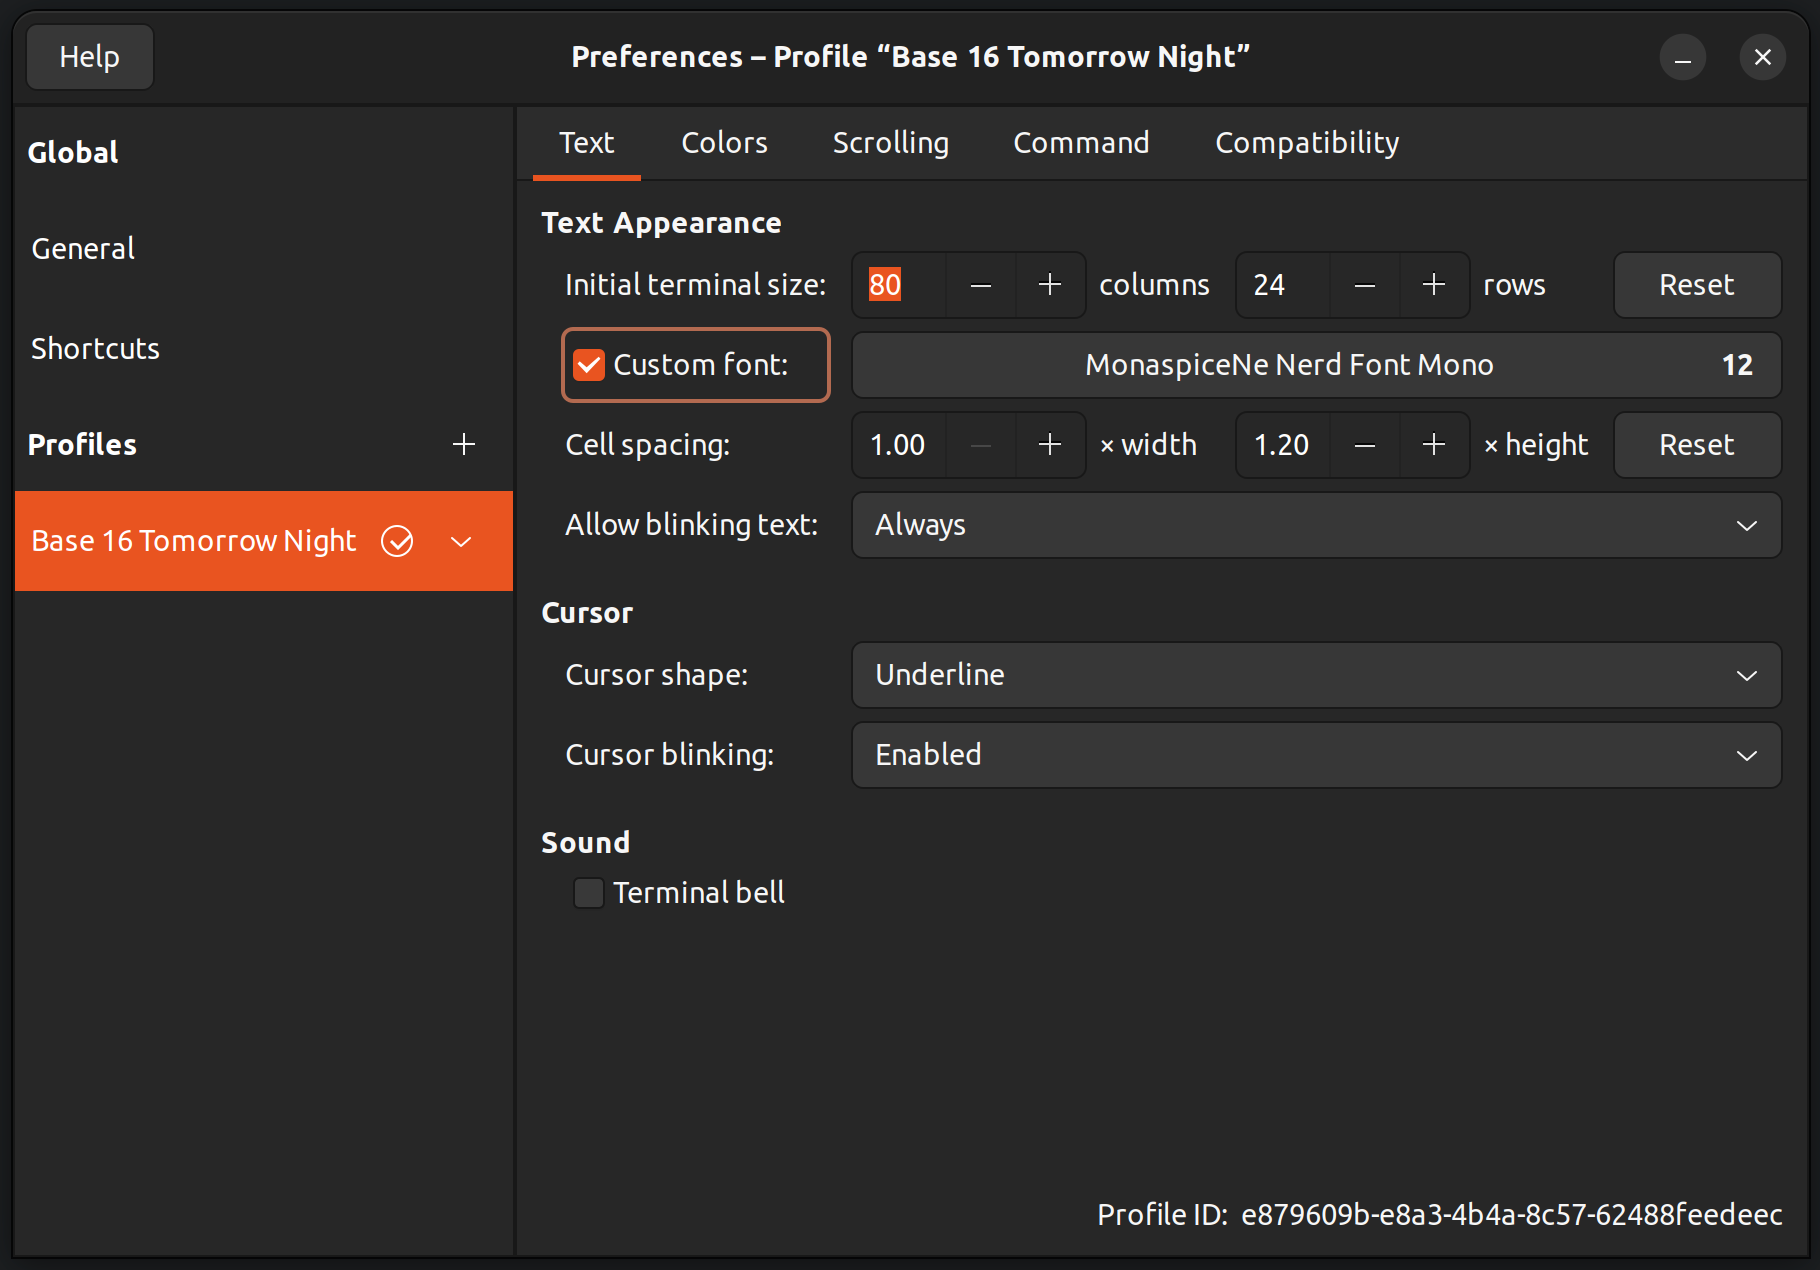
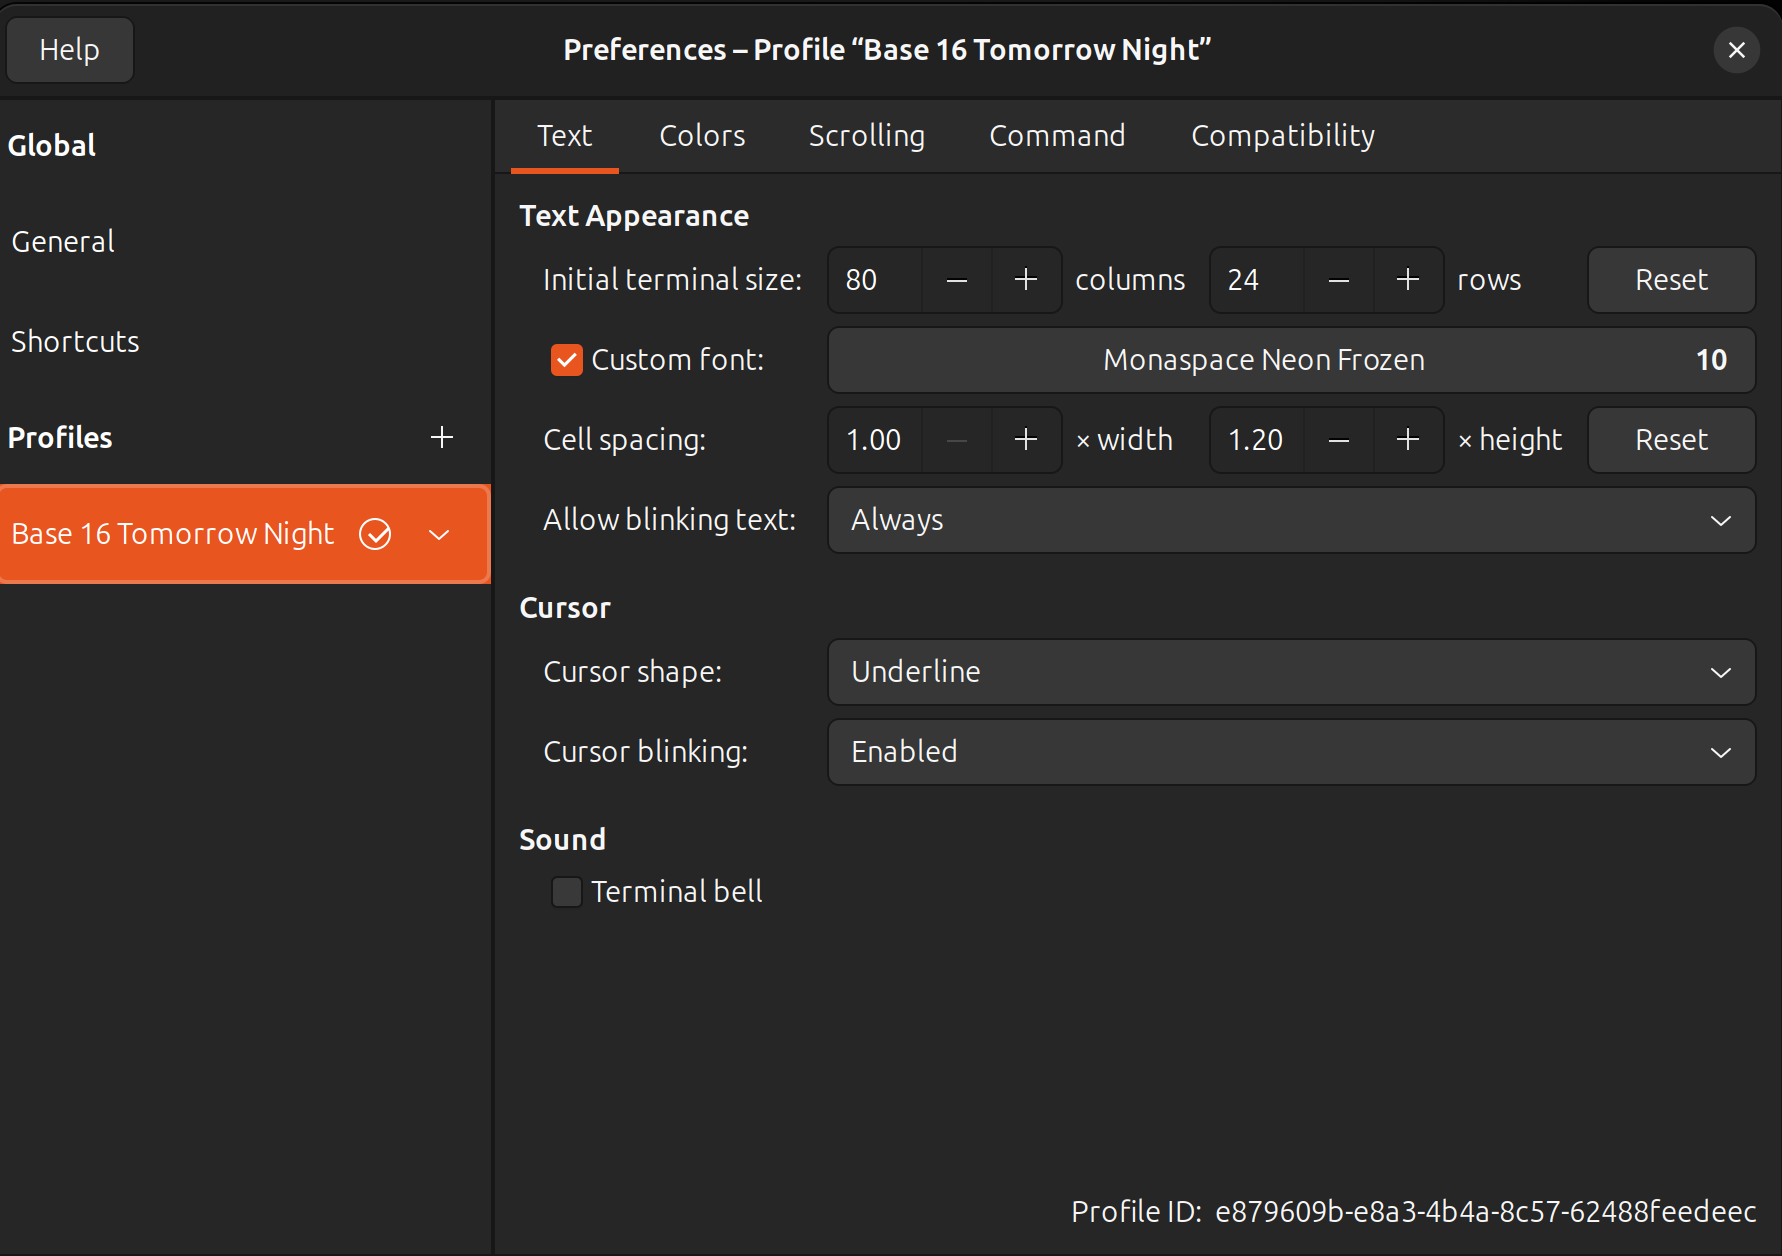
Update README

diff --git a/README.md b/README.md
@@ -42,7 +42,7 @@ brew install --cask 1password
 
 After installing, go to "Settings…" → "Developer" → "Set Up SSH Agent…" and make sure the SSH agent and CLI are enabled:
 
-![1password_developer_settings_mac](README.assets/1password_developer_settings_mac.png)
+![](README.assets/1password_developer_settings_mac.png)
 
 #### 1Password CLI Setup
 
@@ -73,7 +73,7 @@ On macOS, if you're using a custom shell installed via Homebrew or MacPorts, rem
 
 1. Change the Command preference to the full path of your shell:
 
-   ![macos_terminal_shell_command](README.assets/macos_terminal_shell_command.png)
+   ![](README.assets/macos_terminal_shell_command.png)
 
 3. Add your shell to `/etc/shells`:
 
@@ -117,11 +117,24 @@ sh -c "$(curl -fsLS git.io/chezmoi)" -- init --apply cdwilson
 
 #### Font Setup
 
-To install the [Monaspace](https://monaspace.githubnext.com/) font used in my iTerm2 profile below, make sure to install the patched "Monaspice" version from [Nerd Fonts](https://www.nerdfonts.com/#home) (Starship uses many of the icons in Nerd Fonts version):
+To install the [Monaspace](https://monaspace.githubnext.com/) font:
 
 ```sh
-# Monaspace Nerd Font
-brew install --cask font-monaspace-nerd-font
+brew install --cask font-monaspace
+brew install --cask font-symbols-only-nerd-font
+```
+
+> [!NOTE]
+> Although Monaspace added nerd fonts in the `v1.200` release, it does not contain some of the symbols that the `font-symbols-only-nerd-font` font does. In addition, the nerd fonts bundled with with Monaspace are scaled so they fit within the monospaced "box", resulting in smaller icons.
+>
+> To avoid these issues, the `Monaspace Neon Frozen` is used (which does not contain any Nerd Fonts) and `Symbols Nerd Font` is configured as a fallback font which provides the Nerd Font icons.
+
+#### Ghostty Setup
+
+[Ghostty](https://ghostty.org/) is a fast, feature-rich, and cross-platform terminal emulator that uses platform-native UI and GPU acceleration.
+
+```sh
+brew install --cask ghostty
 ```
 
 #### iTerm2 Setup
@@ -136,11 +149,11 @@ brew install --cask font-monaspace-nerd-font
 
 2. Install Homebrew Bash (ARM) profile from [`macOS/iTerm2/profiles/Homebrew Bash (ARM).json`](macOS/iTerm2/profiles/Homebrew%20Bash%20(ARM).json):
 
-   ![iterm2_profile_homebrew_bash_arm](README.assets/iterm2_profile_homebrew_bash_arm.png)
+   ![](README.assets/iterm2_profile_homebrew_bash_arm.png)
 
 3. Install the `base16-tomorrow-night` color profile from [`macOS/iTerm2/color_presets/base16-tomorrow-night.itermcolors`](macOS/iTerm2/color_presets/base16-tomorrow-night.itermcolors):
 
-   ![iterm2_colors_tomorrow_night](README.assets/iterm2_colors_tomorrow_night.png)
+   ![](README.assets/iterm2_colors_tomorrow_night.png)
 
 #### `uv` Setup
 
@@ -304,7 +317,7 @@ sudo gtk-update-icon-cache /usr/share/icons/hicolor
 
 After installing, go to "Settings…" → "Developer" → "Set Up SSH Agent…" and make sure the SSH agent and CLI are enabled:
 
-![1password_developer_settings_ubuntu](README.assets/1password_developer_settings_ubuntu.png)
+![](README.assets/1password_developer_settings_ubuntu.png)
 
 #### 1Password CLI Setup
 
@@ -333,9 +346,11 @@ Install the dotfiles from this repository using [chezmoi](https://www.chezmoi.io
 sh -c "$(curl -fsLS git.io/chezmoi)" -- init --apply cdwilson
 ```
 
-#### GNOME Terminal Setup
+#### Starship Setup
 
-1. To use the prompt shown in the photo above, install <https://starship.rs/>:
+[Starship](https://starship.rs) is the minimal, blazing-fast, and infinitely customizable prompt for any shell!
+
+1. Install starship:
 
    ```sh
    curl -sS https://starship.rs/install.sh | sh
@@ -343,7 +358,40 @@ sh -c "$(curl -fsLS git.io/chezmoi)" -- init --apply cdwilson
 
 2. To get started [configuring starship](https://starship.rs/config/#prompt), add your changes to `~/.config/starship.toml`
 
-3. To use the GNOME Terminal profile colors shown in the photo above, install <https://github.com/aarowill/base16-gnome-terminal>:
+#### Font Setup
+
+To install the [Monaspace](https://monaspace.githubnext.com/) font:
+
+```sh
+cd ~/Downloads
+wget https://github.com/githubnext/monaspace/releases/download/v1.200/monaspace-v1.200.zip
+mkdir -p ~/.local/share/fonts
+unzip monaspace-v1.200.zip
+cd monaspace-v1.200/
+bash util/install_linux.sh
+cd -
+rm -rf monaspace-v1.200/
+fc-cache -fv
+```
+
+To install the `Symbols Nerd Font` font from [Nerd Fonts](https://www.nerdfonts.com/#home):
+
+```sh
+cd ~/Downloads
+wget https://github.com/ryanoasis/nerd-fonts/releases/download/v3.3.0/NerdFontsSymbolsOnly.zip
+mkdir -p ~/.local/share/fonts
+unzip NerdFontsSymbolsOnly.zip -d ~/.local/share/fonts/
+fc-cache -fv
+```
+
+> [!NOTE]
+> Although Monaspace added nerd fonts in the `v1.200` release, it does not contain some of the symbols that the `font-symbols-only-nerd-font` font does. In addition, the nerd fonts bundled with with Monaspace are scaled so they fit within the monospaced "box", resulting in smaller icons.
+>
+> To avoid these issues, the `Monaspace Neon Frozen` is used (which does not contain any Nerd Fonts) and `Symbols Nerd Font` is configured as a fallback font which provides the Nerd Font icons.
+
+#### GNOME Terminal Setup
+
+1. To use the [Base16](https://github.com/chriskempson/base16) color scheme, install <https://github.com/aarowill/base16-gnome-terminal>:
 
    ```sh
    sudo apt install gconf2 uuid-runtime
@@ -352,21 +400,22 @@ sh -c "$(curl -fsLS git.io/chezmoi)" -- init --apply cdwilson
    ~/.config/base16-gnome-terminal/color-scripts/base16-tomorrow-night.sh
    ```
 
-4. To use the [Monaspace](https://github.com/i-tu/Hasklig) font, make sure to install the patched "Monaspice" version from [Nerd Fonts](https://www.nerdfonts.com/#home) (Starship uses many of the icons in Nerd Fonts version):
+2. To use the [Monaspace](https://github.com/i-tu/Hasklig) font:
 
-   ```sh
-   cd ~/Downloads
-   wget https://github.com/ryanoasis/nerd-fonts/releases/download/v3.2.0/Monaspace.zip
-   mkdir -p ~/.local/share/fonts
-   unzip Monaspace.zip -d ~/.local/share/fonts/
-   fc-cache -fv
-   ```
+   ![](README.assets/ubuntu_custom_font.png)
 
-   ![ubuntu_custom_font](README.assets/ubuntu_custom_font.png)
+3. Make sure the "Run command as a login shell" is checked to ensure that `.bash_profile` is sourced:
 
-5. Make sure the "Run command as a login shell" is checked to ensure that `.bash_profile` is sourced:
+   ![](README.assets/ubuntu_terminal_login_shell.png)
 
-   ![ubuntu_terminal_login_shell](README.assets/ubuntu_terminal_login_shell.png)
+#### Ghostty Setup
+
+[Ghostty](https://ghostty.org/) is a fast, feature-rich, and cross-platform terminal emulator that uses platform-native UI and GPU acceleration.
+
+```sh
+sudo apt install libonig5
+/bin/bash -c "$(curl -fsSL https://raw.githubusercontent.com/mkasberg/ghostty-ubuntu/HEAD/install.sh)"
+```
 
 #### `uv` Setup
 
@@ -479,7 +528,13 @@ sudo apt install bat
 [fzf](https://junegunn.github.io/fzf/) is a general-purpose command-line fuzzy finder.
 
 ```sh
-sudo apt install fzf
+# Installing via apt currently installs fzf < 0.48.0 which is needed for the --bash option
+# sudo apt install fzf
+
+# Instead, install the latest version from GitHub via go install
+# TODO: switch back to the apt method once the Ubuntu fzf package is updated >= 0.48.0
+sudo apt install golang-go
+go install github.com/junegunn/fzf@latest
 ```
 
 ------
